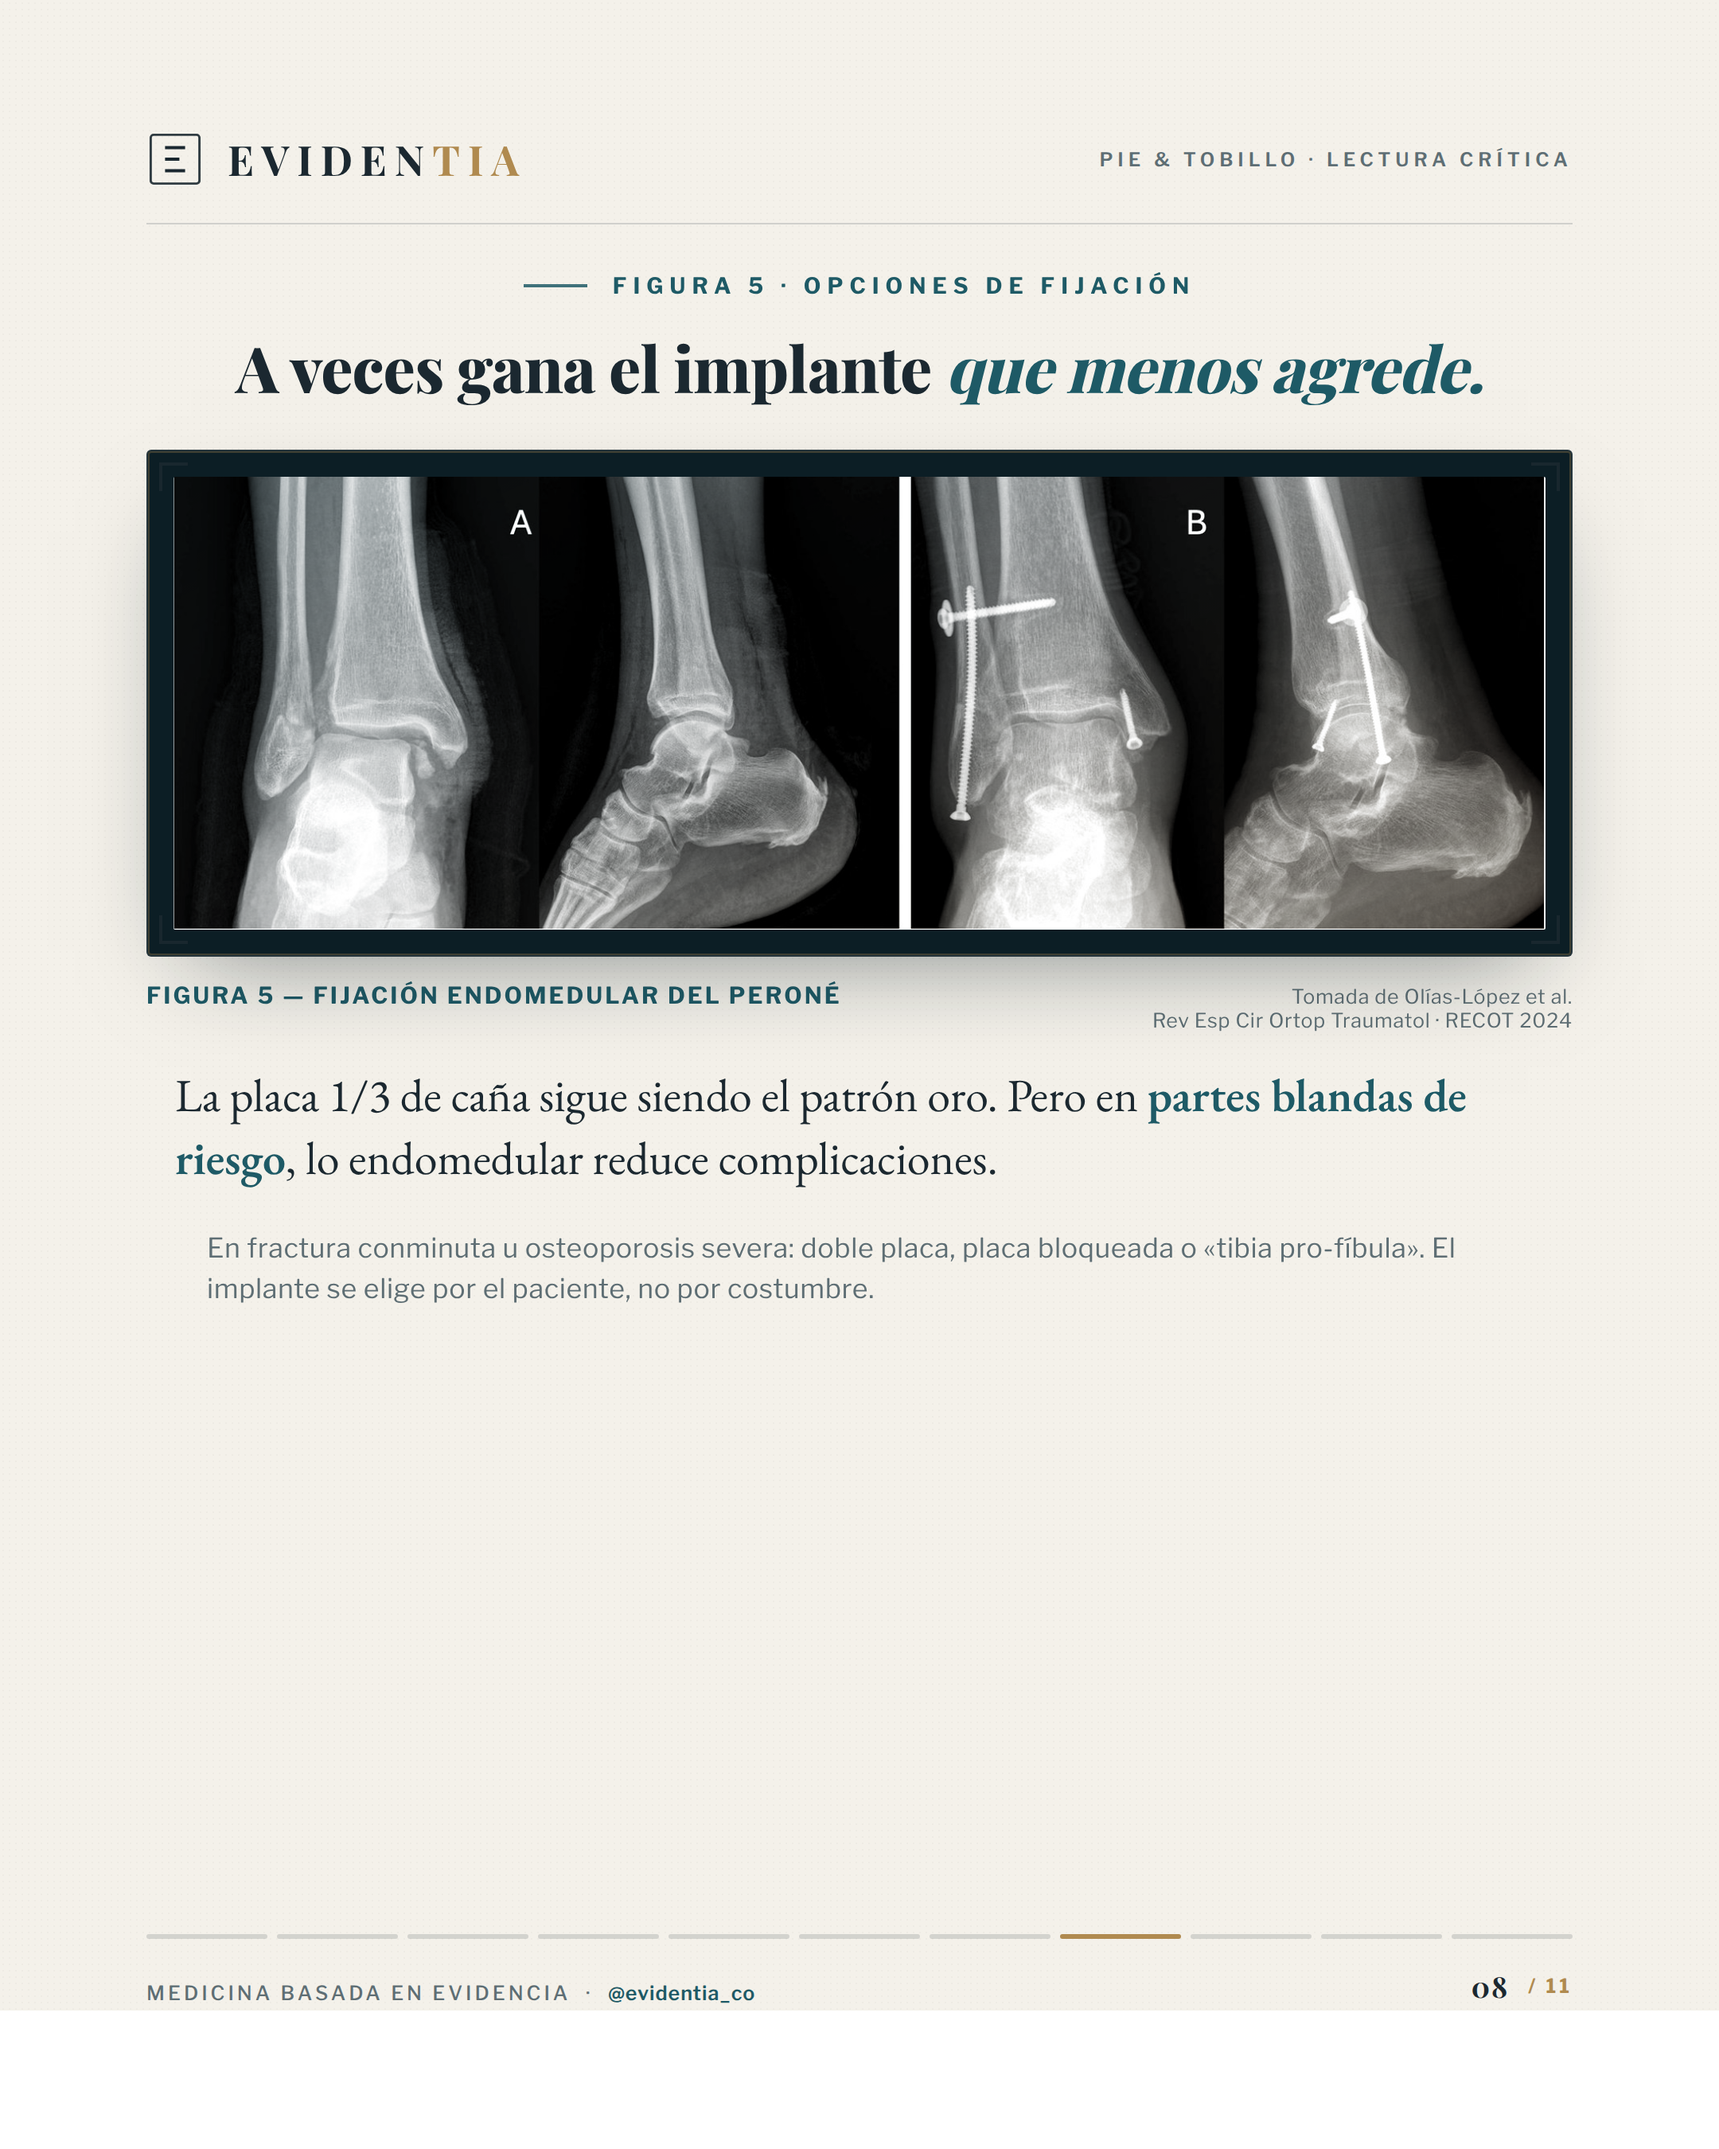
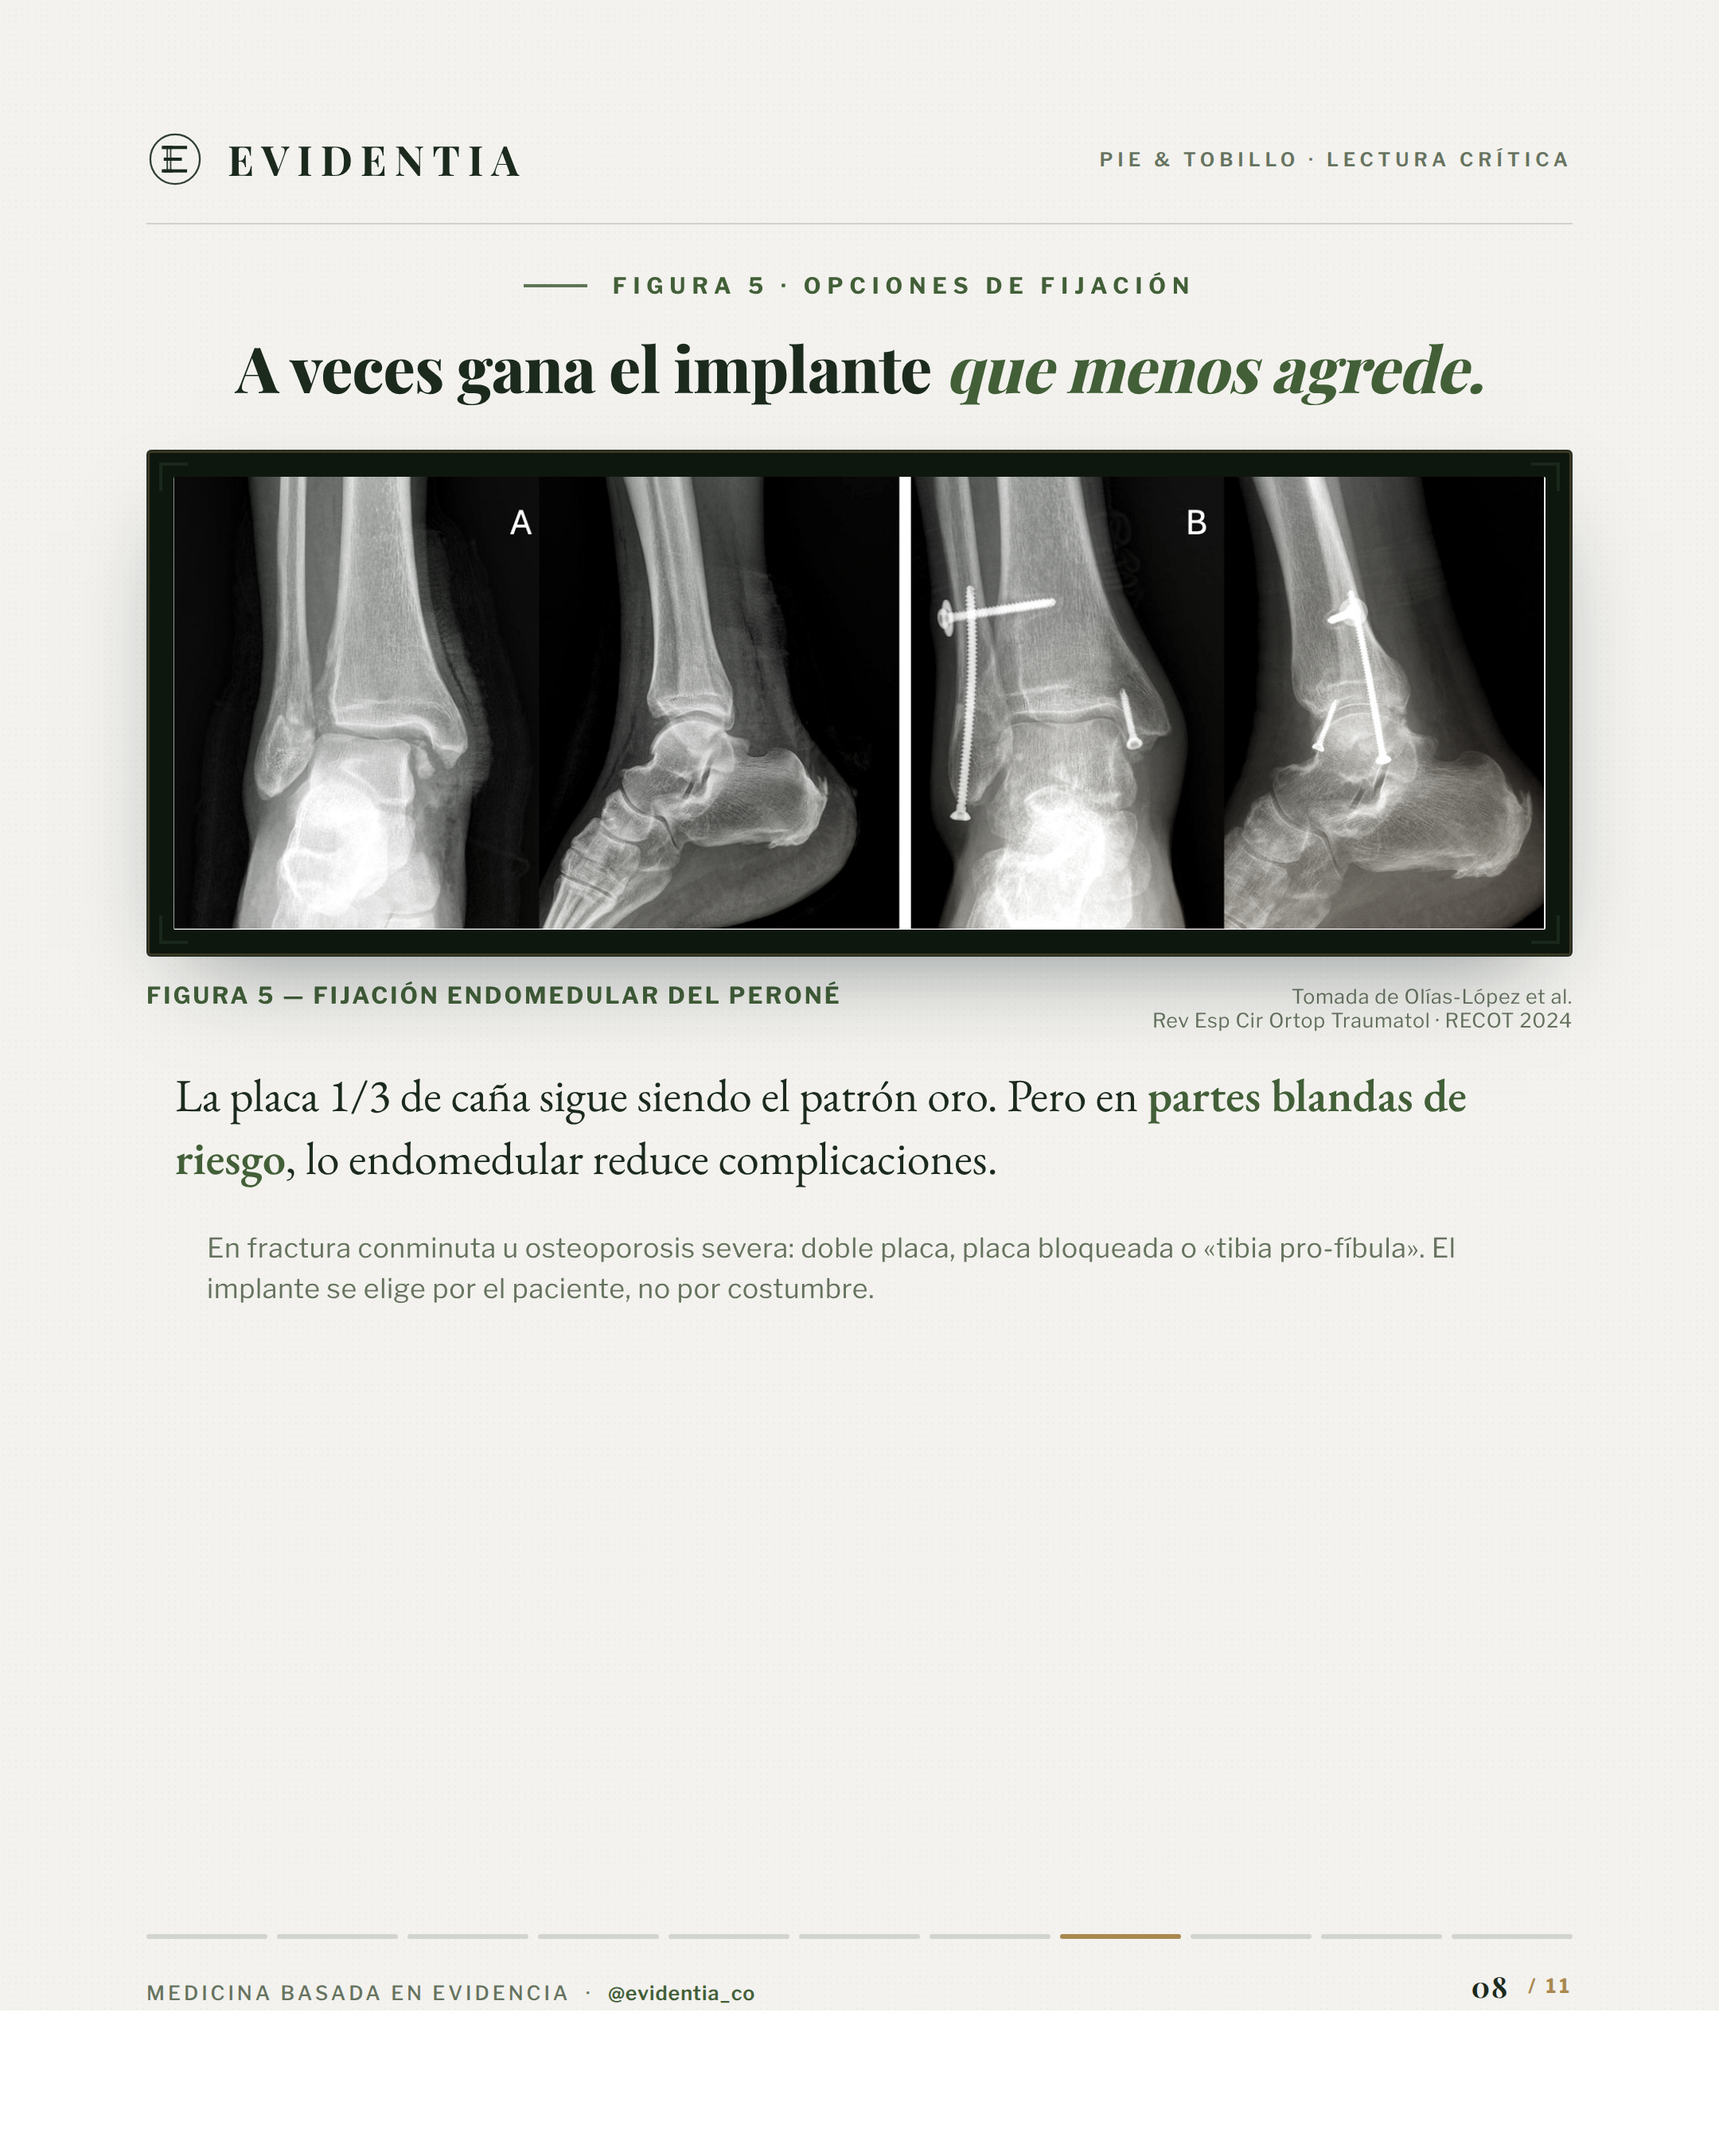
EVIDENTIA carousel: retheme to the real brand identity (forest green + cream)
Match the actual @evidentia_co logo: swap petrol blue for the sampled forest
green (#162216) over cream (#F3F2EE), redraw the emblem as the column-E
monogram, make the wordmark single-colour, warm the neutrals to sage, and
grade the radiographs toward the brand green. Add a brand kit (BRAND.md +
logo) under assets/marca/.

diff --git a/examples/evidentia-carrusel-maleolo-peroneo/src/build2.py b/examples/evidentia-carrusel-maleolo-peroneo/src/build2.py
@@ -7,8 +7,9 @@ OUT = "carousel2"
 TOTAL = 11
 os.makedirs(OUT, exist_ok=True)
 
-PAPER="#F4F1EA"; INK="#1B2830"; PETROL="#0E3541"; GOLD="#B08A4F"
-TEAL="#1E5A66"; CLAY="#9C4A38"; MUTE="#5E6E74"; CHARCOAL="#0C1E25"
+# Brand palette sampled from the real @evidentia_co logo (forest green + cream + brass)
+PAPER="#F3F2EE"; INK="#1B2A1D"; PETROL="#162216"; GOLD="#A9884F"
+TEAL="#425F38"; CLAY="#9C4A38"; MUTE="#66735F"; CHARCOAL="#0E170E"
 FONT_SERIF="'Playfair Display', serif"; FONT_BODY="'EB Garamond', serif"; FONT_SANS="'Libre Franklin', sans-serif"
 
 CSS = f"""
@@ -25,9 +26,9 @@ html,body {{ width:1080px; height:1350px; }}
 .brand {{ display:flex; align-items:center; gap:15px; }}
 .emblem {{ width:36px; height:36px; }}
 .wordmark {{ font-family:{FONT_SERIF}; font-weight:700; font-size:26px; letter-spacing:5px; }}
-.wordmark .co {{ color:{GOLD}; }}
+.wordmark .co {{ color:inherit; }}
 .top-right {{ font-family:{FONT_SANS}; font-size:12px; letter-spacing:3px; font-weight:600; text-transform:uppercase; color:{MUTE}; }}
-.slide.dark .top-right {{ color:#8FA3A7; }}
+.slide.dark .top-right {{ color:#9DAB90; }}
 .rule {{ height:1px; background:currentColor; opacity:0.16; margin:22px 0 0; z-index:3; }}
 .body {{ flex:1; display:flex; flex-direction:column; z-index:3; position:relative; }}
 .body.center {{ justify-content:center; }}
@@ -43,7 +44,7 @@ h1 em {{ font-style:italic; color:{TEAL}; }}
 .lead {{ font-family:{FONT_BODY}; font-size:33px; line-height:1.46; color:{INK}; margin-top:28px; max-width:840px; }}
 .slide.dark .lead {{ color:#E7E1D4; }}
 .lead b {{ font-weight:600; color:{TEAL}; }} .slide.dark .lead b {{ color:{GOLD}; }}
-.muted {{ color:{MUTE}; }} .slide.dark .muted {{ color:#B9C6C9; }}
+.muted {{ color:{MUTE}; }} .slide.dark .muted {{ color:#C3CBB6; }}
 .flag {{ margin-top:30px; border-left:3px solid {GOLD}; padding:6px 0 6px 20px; font-family:{FONT_SANS};
   font-size:18px; line-height:1.5; font-weight:500; color:{INK}; max-width:780px; }}
 .slide.dark .flag {{ color:#E7E1D4; }}
@@ -66,7 +67,7 @@ h1 em {{ font-style:italic; color:{TEAL}; }}
 .idcard .jrnl {{ font-family:{FONT_SANS}; font-size:13px; letter-spacing:2.5px; text-transform:uppercase; color:{TEAL}; font-weight:700; }}
 .idcard .jrnl .oa {{ color:{GOLD}; }}
 .idcard h2 {{ font-family:{FONT_SERIF}; font-weight:800; font-size:47px; line-height:1.1; letter-spacing:-0.5px; color:{INK}; margin:20px 0 22px; }}
-.idcard .auth {{ font-family:{FONT_BODY}; font-size:26px; line-height:1.4; color:#3A4A52; }}
+.idcard .auth {{ font-family:{FONT_BODY}; font-size:26px; line-height:1.4; color:#3C4A36; }}
 .idcard .meta {{ font-family:{FONT_SANS}; font-size:15px; line-height:1.7; color:{MUTE}; letter-spacing:0.3px; margin-top:16px; }}
 .idcard .divider {{ height:1px; background:rgba(27,40,48,0.12); margin:26px 0; }}
 .idcard .badge {{ display:inline-flex; align-items:center; gap:10px; background:{PETROL}; color:{PAPER};
@@ -95,7 +96,7 @@ h1 em {{ font-style:italic; color:{TEAL}; }}
 
 .foot {{ display:flex; justify-content:space-between; align-items:flex-end; z-index:3;
   font-family:{FONT_SANS}; font-size:12.5px; letter-spacing:2px; text-transform:uppercase; }}
-.foot .l {{ color:{MUTE}; font-weight:500; }} .slide.dark .foot .l {{ color:#8FA3A7; }}
+.foot .l {{ color:{MUTE}; font-weight:500; }} .slide.dark .foot .l {{ color:#9DAB90; }}
 .foot .handle {{ text-transform:none; letter-spacing:0.5px; font-weight:600; color:{TEAL}; }}
 .slide.dark .foot .handle {{ color:{GOLD}; }}
 .foot .r {{ display:flex; align-items:center; gap:12px; color:{INK}; font-weight:700; }}
@@ -115,7 +116,7 @@ h1 em {{ font-style:italic; color:{TEAL}; }}
 .capframe {{ position:relative; }}
 .capframe.rad {{ box-shadow:0 24px 60px -28px rgba(12,30,37,0.55), inset 0 0 0 1px rgba(176,138,79,0.30); }}
 .capframe.rad::after {{ content:""; position:absolute; inset:16px; pointer-events:none;
-  background:linear-gradient(155deg, rgba(14,53,65,0.55), rgba(30,90,102,0.10) 45%, rgba(176,138,79,0.28));
+  background:linear-gradient(155deg, rgba(22,34,22,0.60), rgba(66,95,56,0.10) 45%, rgba(169,136,79,0.30));
   mix-blend-mode:soft-light; }}
 .capframe.lite {{ box-shadow:0 22px 56px -30px rgba(12,30,37,0.42), inset 0 0 0 1px rgba(176,138,79,0.28); }}
 .tick {{ position:absolute; width:18px; height:18px; z-index:4; border-color:{GOLD}; opacity:0.9; }}
@@ -141,13 +142,16 @@ h1 em {{ font-style:italic; color:{TEAL}; }}
 .signoff {{ margin-top:34px; display:flex; align-items:center; gap:16px; }}
 .signoff .so-mark {{ width:34px; height:34px; }}
 .signoff .so-txt {{ font-family:{FONT_SERIF}; font-weight:700; font-size:22px; letter-spacing:4px; color:{PAPER}; }}
-.signoff .so-txt .co {{ color:{GOLD}; }}
-.signoff .so-sub {{ font-family:{FONT_SANS}; font-size:13px; letter-spacing:2px; color:#8FA3A7; margin-left:2px; }}
+.signoff .so-txt .co {{ color:inherit; }}
+.signoff .so-sub {{ font-family:{FONT_SANS}; font-size:13px; letter-spacing:2px; color:#9DAB90; margin-left:2px; }}
 """
 
-EMBLEM = '''<svg class="emblem" viewBox="0 0 40 40" fill="none" stroke="currentColor" stroke-width="1.6">
-  <rect x="3" y="3" width="34" height="34" rx="2" opacity="0.9"/>
-  <path d="M13 12 h14 M13 20 h10 M13 28 h14" stroke-width="2.2"/></svg>'''
+# Column-E monogram echoing the real EVIDENTIA badge
+EMBLEM = '''<svg class="emblem" viewBox="0 0 44 44" fill="none" stroke="currentColor" stroke-linecap="square">
+  <circle cx="22" cy="22" r="19" stroke-width="1.4" opacity="0.9"/>
+  <path d="M14.5 13 H30 M14.5 22 H26 M14.5 31 H30" stroke-width="2.4"/>
+  <path d="M16 13.5 V30.5 M18.6 13.5 V30.5" stroke-width="1.15" opacity="0.85"/>
+  <path d="M13 13 h6 M13 31 h6" stroke-width="2.4"/></svg>'''
 
 def header():
     return f'''<div class="top"><div class="brand">{EMBLEM}<span class="wordmark">EVIDEN<span class="co">TIA</span></span></div>

diff --git a/examples/evidentia-carrusel-maleolo-peroneo/assets/marca/BRAND.md b/examples/evidentia-carrusel-maleolo-peroneo/assets/marca/BRAND.md
@@ -1,0 +1,28 @@
+# Kit de marca EVIDENTIA (derivado del logo real @evidentia_co)
+
+Paleta y tipografía usadas en el carrusel, muestreadas del logotipo oficial
+(`logo.jpg`, foto de perfil de Instagram @evidentia_co — "Consultores en investigación").
+
+## Colores
+| Rol | HEX | Uso |
+|-----|-----|-----|
+| Verde bosque (marca) | `#162216` | Fondos oscuros (portada, cierre), badge, emblema |
+| Crema / papel | `#F3F2EE` | Fondo claro de las diapositivas |
+| Tinta verde | `#1B2A1D` | Texto principal sobre crema |
+| Verde hoja (acento) | `#425F38` | Énfasis en cursiva, negritas, kickers sobre crema |
+| Latón / oro (acento) | `#A9884F` | Kickers y detalles sobre verde, barra de progreso, esquinas |
+| Salvia apagada | `#66735F` | Texto secundario, metadatos |
+| Terracota (alerta) | `#9C4A38` | Solo el dato «40 %» |
+
+## Tipografía
+- **Titulares (serif display):** Playfair Display — evoca el estilo clásico del logo.
+- **Cuerpo (serif):** EB Garamond.
+- **Etiquetas / kickers / UI (sans):** Libre Franklin.
+
+## Identidad
+- Emblema: monograma «E-columna» (columna clásica como asta de la E), dentro de un círculo.
+- Wordmark: EVIDENTIA en serif, monocolor (crema sobre verde / verde sobre crema).
+- Tono: elegante, académico, sobrio; mucho espacio en blanco; oro con moderación.
+
+> Nota: el degradado del código QR de Instagram (naranja→rosa→morado) es el
+> estándar de la app, **no** la paleta de marca. La marca real es verde + crema.
